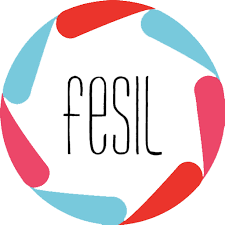
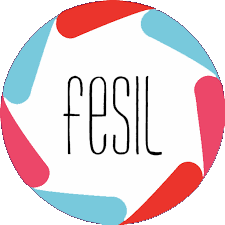
je me souviens plus de ce que j'ai fait mais j'avais pas push

diff --git a/vieassociative.html b/vieassociative.html
@@ -27,9 +27,11 @@
 				</td>
 				<td width="20%" class="center-all">
 					<a href="fnesi.html">
-						<img src="images/Logo-FNESI-officiel.png" alt="Logo de la FNESI">
+						<img src="images/Logo-FNESI-officiel.png" alt="Logo de la FNESI" style="width:75%">
 					</a>
-						<img src="images/FESIL.png">
+					<a href="fnesi.html">
+						<img src="images/FESIL.png" alt="logo de la FESIL" style="width:75%">
+					</a>
 				</td>
 				<td width="20%"  class="center-all">
 					<a href="reseau.html">
@@ -39,19 +41,32 @@
 			</tr>
 			<tr> 
 				<td>
-					<p> Présidente de <a href="https://hdnlyon.univ-lyon1.fr/" target="_blank">l’Hopital des Nounours de Lyon</a> en 2017-2018, j’ai pu être manager une équipe de 13 personnes, grâce à notre union, nous avons pu organiser quatre sessions et deux conférences. </p>
+					<p> Présidente de <a href="https://hdnlyon.univ-lyon1.fr/" target="_blank">l’Hopital des Nounours de Lyon</a> 
+					en 2017-2018, j’ai pu être manager une équipe de 13 personnes, grâce à notre union, nous avons pu 
+					organiser quatre sessions et deux conférences. </p>
 				</td>
 				<td>
-					 <p> Vice-présidente en charge de la communication en 2017 et quelques temps Chef de Ville en 2018 du comité <a href="https://www.nezpoursourire.org/" target="_blank">Nez Pour Sourire</a> de Lyon, j’ai pu gérer les réseaux sociaux qui permettait aux étudiants en santé de Lyon de se retrouver afin de collecter des dons pour permettre la venue des clowns dans les hôpitaux pédiatriques.  </p>
+					 <p> Vice-présidente en charge de la communication en 2017 et quelques temps Chef de 
+					 Ville en 2018 du comité <a href="https://www.nezpoursourire.org/" target="_blank">Nez Pour Sourire</a> de
+					 Lyon, j’ai pu gérer les réseaux sociaux qui permettait aux étudiants en santé de Lyon de se retrouver 
+					 afin de collecter des dons pour permettre la venue des clowns dans les hôpitaux pédiatriques.  </p>
 				</td>
 				<td>
-					<p> Vice-présidente en charge de l’Innovation Sociale quelques mois mais surtout formatrice pour <a href="http://gaelis.fr/" target="_blank">GAELIS</a> depuis 2017, j’ai animé plusieurs formations lors de week-end de formation, de formations nocturnes, pour des néo associatifs ou même des associatifs plus confirmé. La loi 1901 n’a plus de secret pour moi !  </p>
+					<p> Vice-présidente en charge de l’Innovation Sociale quelques mois mais surtout 
+					formatrice pour <a href="http://gaelis.fr/" target="_blank">GAELIS</a> depuis 2017, 
+					j’ai animé plusieurs formations lors de week-end de formation, de formations nocturnes, 
+					pour des néo associatifs ou même des associatifs plus confirmé. La loi 1901 n’a plus de secret pour moi !  </p>
 				</td>
 				<td>
-					<p> Membre de la commission de défense des droits des étudiants en 2018 pour la <a href="http://fnesi.org/" target="_blank">FNESI</a>, j’ai pu aider des étudiants afin de résoudre leur problématique, sociales ou étudiantes (conflits en stage, avec formateur…). </p>
+					<p> Membre de la commission de défense des droits des étudiants 
+					en 2018 pour la <a href="http://fnesi.org/" target="_blank">FNESI</a>, j’ai 
+					pu aider des étudiants afin de résoudre leur problématique, sociales ou étudiantes 
+					(conflits en stage, avec formateur…). J'ai également pu être membre du CA de la FNESI comme de la FESIL
+					ainsi que d'organiser le congrès de la FNESI en 2017 à Lyon.</p>
 				</td>
 				<td>
-					<P> Le réseau associatif est très riche, j’ai pu faire la rencontre d’autre étudiants en santé ou non mais aussi d’amis. </p>
+					<P> Le réseau associatif est très riche, j’ai pu faire la 
+					rencontre d’autre étudiants en santé ou non mais aussi d’amis. </p>
 				</td>
 			</tr>
 		</table>

diff --git a/patisserie.html b/patisserie.html
@@ -24,16 +24,15 @@
 			<tr>
 				<td width="33%"> <img src="images/23.jpg" class="modalImg" alt="23 ans de Jolan - 2020"> </td>
 				<td width="33%"> <img src="images/choc.jpg" class="modalImg" alt="une buche trois chocolats pour Noel 2020"> </td>
-				<td width="33%"> <img src="images/buche.jpg" class="modalImg" alt="un essai de buche passion chocolat"> </td>
+				<td> </td>
 			</tr>
 			<tr>
-				<td width="33%"> <img src="images/fraise.jpg" class="modalImg" alt="une buche passion fraise pour Noel 2020"> </td>
-				<td width="33%"> <img src="images/passion.jpg" class="modalImg" alt="tarte passion framboise"> </td>
 				<td width="33%"> <img src="images/mangue.jpg" class="modalImg" alt="tarte mangue citron, une belle fraicheur en été"> </td>
+				<td width="33%"> <img src="images/figue.jpg" class="modalImg" alt="une tarte à la figue pour l'anniversaire de ma grand-mère"> </td>
+				<td> </td>
 			</tr>
 			<tr>
-				<td width="33%"> <img src="images/gateau.jpg" class="modalImg" alt="un entremet à la mangue">  </td>
-				<td width="33%"> <img src="images/figue.jpg" class="modalImg" alt="une tarte à la figue pour l'anniversaire de ma grand-mère"> </td>
+				<td width="33%"> <img src="images/buche.jpg" class="modalImg" alt="une buche chocolat passion">  </td>
 				<td width="33%"> <img src="images/foretnoire.jpg" class="modalImg" alt="une forêt noire à la framboise et sans alcool!"> </td>
 			</tr>
 		
@@ -74,5 +73,27 @@
 			  modal.style.display = "none";
 			}
 		</script>
+	<nav> 
+		<ul>
+			<li>
+				<a href="index.html">Accueil</a>
+			</li>
+			<li>
+				<a href="loisirs.html">Loisirs</a>
+			</li>
+			<li>
+				<a href="vieassociative.html">Vie associative</a>
+			</li>
+			<li>
+				<a href="experiences pro.html">Experiences professionnelles</a>
+			</li>
+			<li>
+				<a href="master.html">Master</a>
+			</li>
+			<li>
+				<a href="apropos.html">A propos</a>
+			</li>
+		</ul>
+	</nav>
 	</body>
 </html>

diff --git a/fnesi.html b/fnesi.html
@@ -2,23 +2,23 @@
 
 <html lang="fr">
 	<head>
-		<title>FNESI</title>
+		<title>FNESI et FESIL</title>
 		<link rel="stylesheet" href="style.css" >
 		<meta charset="utf8" >
 	</head>
 	<body>
-		<h1><a href="index.html">Accueil</a> > <a href="vieassociative.html">Vie associative</a> > FNESI</h1>
+		<h1><a href="index.html">Accueil</a> > <a href="vieassociative.html">Vie associative</a> > FNESI & FESIL</h1>
 	<div class="mi"> 
 				<p>  </p>
 		</div>
 		<table>
 			<tr>
-				<td width="33%" class="center-all">  <p> L'organisation d'évènements </p> </td>
-				<td width="33%"> <img src="images/.jpg"  alt=""> </td>
+				<td width="33%" class="center-all">  <p> La participation à des évènements de formation </p> </td>
+				<td width="33%"> <img src="images/WEFESIL.jpg"  alt=""> </td>
 				<td width="33%"> </td>
 			</tr>
 			<tr>
-				<td width="33%" class="center-all"> <p> La prise de parole en public, un challenge </p> </td>
+				<td width="33%" class="center-all"> <p> L'organisation d'évènements </p> </td>
 				<td width="33%"> <img src="images/congres.jpg" alt=""> </td>
 				<td width="33%"></td>
 			</tr>

diff --git a/festival.html b/festival.html
@@ -8,5 +8,27 @@
 	</head>
 	<body>
 		<h1><a href="index.html">Accueil</a> > <a href="loisirs.html">Les loisirs</a> > Les Festivals</h1>
+		<nav> 
+			<ul>
+				<li>
+					<a href="index.html">Accueil</a>
+				</li>
+				<li>
+					<a href="loisirs.html">Loisirs</a>
+				</li>
+				<li>
+					<a href="vieassociative.html">Vie associative</a>
+				</li>
+				<li>
+					<a href="experiences pro.html">Experiences professionnelles</a>
+				</li>
+				<li>
+					<a href="master.html">Master</a>
+				</li>
+				<li>
+					<a href="apropos.html">A propos</a>
+				</li>
+			</ul>
+		</nav>
 	</body>
 </html>

diff --git a/contenu.html b/contenu.html
@@ -8,5 +8,28 @@
 	</head>
 	<body>
 		<h1><a href="index.html">Accueil</a> > <a href="loisirs.html">Les loisirs</a> > Création de contenu</h1> 
+	<nav> 
+		<ul>
+			<li>
+				<a href="index.html">Accueil</a>
+			</li>
+			<li>
+				<a href="loisirs.html">Loisirs</a>
+			</li>
+			<li>
+				<a href="vieassociative.html">Vie associative</a>
+			</li>
+			<li>
+				<a href="experiences pro.html">Experiences professionnelles</a>
+			</li>
+			<li>
+				<a href="master.html">Master</a>
+			</li>
+			<li>
+				<a href="apropos.html">A propos</a>
+			</li>
+		</ul>
+	</nav>
 	</body>
+	
 </html>

diff --git a/voyages.html b/voyages.html
@@ -29,7 +29,27 @@
 			</tr>
 		
 		</table>
-		
-		
+	<nav> 
+		<ul>
+			<li>
+				<a href="index.html">Accueil</a>
+			</li>
+			<li>
+				<a href="loisirs.html">Loisirs</a>
+			</li>
+			<li>
+				<a href="vieassociative.html">Vie associative</a>
+			</li>
+			<li>
+				<a href="experiences pro.html">Experiences professionnelles</a>
+			</li>
+			<li>
+				<a href="master.html">Master</a>
+			</li>
+			<li>
+				<a href="apropos.html">A propos</a>
+			</li>
+		</ul>
+	</nav>		
 	</body>
 </html>

diff --git a/gaelis.html b/gaelis.html
@@ -19,7 +19,7 @@
 			</tr>
 			<tr>
 				<td width="33%" class="center-all"> <p> L'organisation d'évenements </p> </td>
-				<td width="33%"> <img src="images/forma.jpg"  alt=""> </td>
+				<td width="33%"> <img src="images/OR.jpg"  alt=""> </td>
 				<td width="33%">  </td>
 			</tr>
 		

diff --git a/style.css b/style.css
@@ -44,7 +44,7 @@ img.margin-top {
 nav {
 	position:absolute;
 	right:0px;
-	top:20%;
+	top:15%;
 	width:190px;
 	background-color:rgba(0,0,0,0.1);
 }

diff --git a/loisirs.html b/loisirs.html
@@ -81,6 +81,5 @@ J’ai pu commencer par le simple gâteau au yaourt et maintenant quelques uns d
 			</li>
 		</ul>
 	</nav>
-	
 	</body>
 </html>
